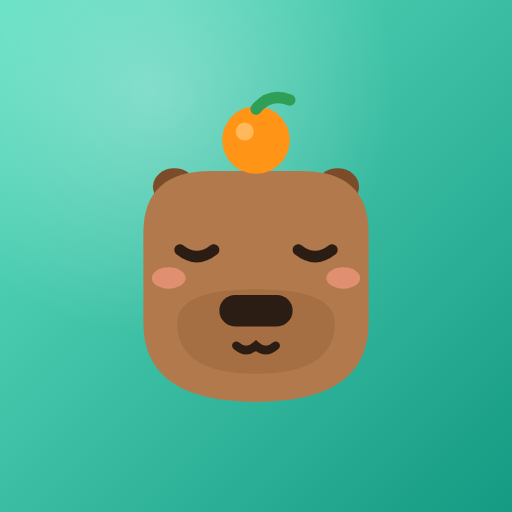
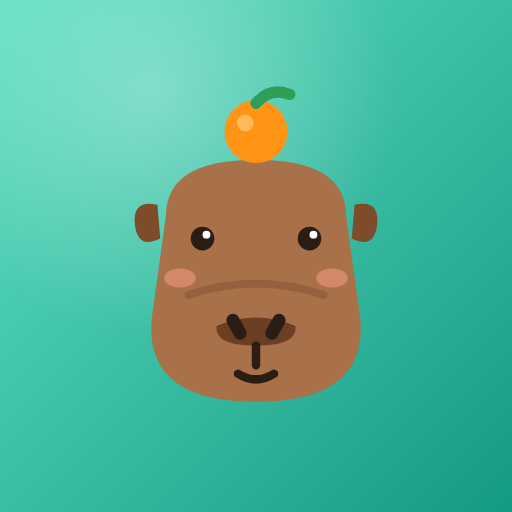
Site principal: capivara redesenhada (parece capivara, não urso)
Claude-Session: https://claude.ai/code/session_017XzR5RWQPSYUH6UPubdo7U

diff --git a/index.html b/index.html
@@ -2233,7 +2233,7 @@ button:focus-visible, a:focus-visible, [role="button"]:focus-visible, [tabindex]
   const eyes = (y = 38, dx = 8) => `<circle cx="${32 - dx}" cy="${y}" r="2.6" fill="${K}"/><circle cx="${32 + dx}" cy="${y}" r="2.6" fill="${K}"/>`;
   const blush = (y = 43, dx = 13, c = '#ff8fab') => `<ellipse cx="${32 - dx}" cy="${y}" rx="3.4" ry="2.2" fill="${c}" opacity=".7"/><ellipse cx="${32 + dx}" cy="${y}" rx="3.4" ry="2.2" fill="${c}" opacity=".7"/>`;
   const AVATARS = {
-    capivara: { name: 'Capivara', bg: '#d6f5ec', say: 'De boa…', svg: `<g class="ear"><ellipse cx="17.5" cy="17.8" rx="3.8" ry="3.3" fill="#7c4b2a"/><ellipse cx="46.5" cy="17.8" rx="3.8" ry="3.3" fill="#7c4b2a"/></g><g class="cb"><path d="M12 26q0-11 12-11h16q12 0 12 11v16q0 14-20 14T12 42z" fill="#b27a4c"/><path d="M18 42q0-6 14-6t14 6q0 9-14 9t-14-9z" fill="#9c663d" opacity=".55"/><path class="lid" d="M18.5 29q3 2.4 6 0M39.5 29q3 2.4 6 0" fill="none" stroke="${K}" stroke-width="2" stroke-linecap="round"/><rect x="25.5" y="37" width="13" height="5.6" rx="2.8" fill="${K}"/><path d="M28.5 46q1.75 1.6 3.5 0q1.75 1.6 3.5 0" fill="none" stroke="${K}" stroke-width="1.5" stroke-linecap="round"/><ellipse class="bl" cx="16.5" cy="34" rx="3" ry="1.9" fill="#ff9d8a" opacity=".6"/><ellipse class="bl" cx="47.5" cy="34" rx="3" ry="1.9" fill="#ff9d8a" opacity=".6"/></g><g class="fruit"><circle cx="32" cy="9.5" r="6" fill="#ff9416"/><circle cx="30" cy="8" r="1.6" fill="#ffc06b" opacity=".8"/><path d="M32 4q2.5-3 6-1.6" fill="none" stroke="#2f9e57" stroke-width="2" stroke-linecap="round"/></g>` },
+    capivara: { name: 'Capivara', bg: '#d6f5ec', say: 'De boa…', svg: `<g class="ear"><path d="M14.5 21q-4.5-1-4 3.5t4.5 2.5z" fill="#7e4c2b"/><path d="M49.5 21q4.5-1 4 3.5t-4.5 2.5z" fill="#7e4c2b"/></g><g class="cb"><path d="M16 23q0-10 16-10t16 10l2.5 18q1.5 15-18.5 15T13.5 41z" fill="#a9714a"/><path d="M20 37q12-4 24 0" fill="none" stroke="#8d5a37" stroke-width="1.4" stroke-linecap="round" opacity=".7"/><circle cx="22.5" cy="27" r="2.1" fill="${K}"/><circle cx="41.5" cy="27" r="2.1" fill="${K}"/><circle cx="23.2" cy="26.3" r=".7" fill="#fff"/><circle cx="42.2" cy="26.3" r=".7" fill="#fff"/><path d="M25 42.5q7-3 14 0q.5 3.5-7 3.5t-7-3.5z" fill="#6b3f24"/><path d="M27.9 41.5l1.3 2.3M36.1 41.5l-1.3 2.3" stroke="${K}" stroke-width="2.3" stroke-linecap="round"/><path d="M32 46v3.5M28.8 51q3.2 2 6.4 0" fill="none" stroke="${K}" stroke-width="1.5" stroke-linecap="round"/><ellipse class="bl" cx="18.5" cy="34" rx="2.8" ry="1.7" fill="#ff9d8a" opacity=".5"/><ellipse class="bl" cx="45.5" cy="34" rx="2.8" ry="1.7" fill="#ff9d8a" opacity=".5"/></g><g class="fruit"><circle cx="32" cy="8" r="5.6" fill="#ff9416"/><circle cx="30.1" cy="6.5" r="1.5" fill="#ffc06b" opacity=".8"/><path d="M32 3q2.5-3 6-1.6" fill="none" stroke="#2f9e57" stroke-width="2" stroke-linecap="round"/></g>` },
     gato: { name: 'Gato', bg: '#ffe7b3', say: 'Miau!', svg: `<g class="ear"><path d="M14 26 17 10 27 19M50 26 47 10 37 19" fill="#ffb020"/><path d="M18 15 19.5 22M46 15 44.5 22" stroke="#ff8a3d" stroke-width="2.4" stroke-linecap="round"/></g><circle cx="32" cy="36" r="19" fill="#ffb020"/>${eyes(35)}${blush(41)}<path d="M30 41h4l-2 2.2z" fill="#ff6f91"/><path d="M28.5 45q3.5 2.6 7 0" fill="none" stroke="${K}" stroke-width="1.8" stroke-linecap="round"/><path d="M12 39h8M12 43l8-1M52 39h-8M52 43l-8-1" stroke="${K}" stroke-width="1.3" stroke-linecap="round" opacity=".55"/>` },
     coelho: { name: 'Coelho', bg: '#ffd9e8', say: 'Hop hop!', svg: `<g class="ear el"><ellipse cx="24" cy="14" rx="5.5" ry="13" fill="#fff"/><ellipse cx="24" cy="15" rx="2.6" ry="9" fill="#ffadc8"/></g><g class="ear er"><ellipse cx="40" cy="14" rx="5.5" ry="13" fill="#fff"/><ellipse cx="40" cy="15" rx="2.6" ry="9" fill="#ffadc8"/></g><circle cx="32" cy="38" r="18" fill="#fff"/>${eyes(37)}${blush(42)}<ellipse cx="32" cy="42" rx="2.4" ry="1.7" fill="#ff7aa2"/><path d="M29 45.5q3 2.2 6 0" fill="none" stroke="${K}" stroke-width="1.7" stroke-linecap="round"/>` },
     urso: { name: 'Urso', bg: '#f1e2d1', say: 'Grrr… abraço!', svg: `<circle cx="17" cy="21" r="7" fill="#a86f45"/><circle cx="47" cy="21" r="7" fill="#a86f45"/><circle cx="17" cy="21" r="3.4" fill="#e3b78f"/><circle cx="47" cy="21" r="3.4" fill="#e3b78f"/><circle cx="32" cy="36" r="19" fill="#a86f45"/><ellipse cx="32" cy="43" rx="9" ry="7" fill="#e3b78f"/>${eyes(33)}<ellipse cx="32" cy="40.5" rx="3.2" ry="2.3" fill="${K}"/><path d="M29 45q3 2.4 6 0" fill="none" stroke="${K}" stroke-width="1.7" stroke-linecap="round"/>` },

diff --git a/preview.html b/preview.html
@@ -2233,7 +2233,7 @@ button:focus-visible, a:focus-visible, [role="button"]:focus-visible, [tabindex]
   const eyes = (y = 38, dx = 8) => `<circle cx="${32 - dx}" cy="${y}" r="2.6" fill="${K}"/><circle cx="${32 + dx}" cy="${y}" r="2.6" fill="${K}"/>`;
   const blush = (y = 43, dx = 13, c = '#ff8fab') => `<ellipse cx="${32 - dx}" cy="${y}" rx="3.4" ry="2.2" fill="${c}" opacity=".7"/><ellipse cx="${32 + dx}" cy="${y}" rx="3.4" ry="2.2" fill="${c}" opacity=".7"/>`;
   const AVATARS = {
-    capivara: { name: 'Capivara', bg: '#d6f5ec', say: 'De boa…', svg: `<g class="ear"><ellipse cx="17.5" cy="17.8" rx="3.8" ry="3.3" fill="#7c4b2a"/><ellipse cx="46.5" cy="17.8" rx="3.8" ry="3.3" fill="#7c4b2a"/></g><g class="cb"><path d="M12 26q0-11 12-11h16q12 0 12 11v16q0 14-20 14T12 42z" fill="#b27a4c"/><path d="M18 42q0-6 14-6t14 6q0 9-14 9t-14-9z" fill="#9c663d" opacity=".55"/><path class="lid" d="M18.5 29q3 2.4 6 0M39.5 29q3 2.4 6 0" fill="none" stroke="${K}" stroke-width="2" stroke-linecap="round"/><rect x="25.5" y="37" width="13" height="5.6" rx="2.8" fill="${K}"/><path d="M28.5 46q1.75 1.6 3.5 0q1.75 1.6 3.5 0" fill="none" stroke="${K}" stroke-width="1.5" stroke-linecap="round"/><ellipse class="bl" cx="16.5" cy="34" rx="3" ry="1.9" fill="#ff9d8a" opacity=".6"/><ellipse class="bl" cx="47.5" cy="34" rx="3" ry="1.9" fill="#ff9d8a" opacity=".6"/></g><g class="fruit"><circle cx="32" cy="9.5" r="6" fill="#ff9416"/><circle cx="30" cy="8" r="1.6" fill="#ffc06b" opacity=".8"/><path d="M32 4q2.5-3 6-1.6" fill="none" stroke="#2f9e57" stroke-width="2" stroke-linecap="round"/></g>` },
+    capivara: { name: 'Capivara', bg: '#d6f5ec', say: 'De boa…', svg: `<g class="ear"><path d="M14.5 21q-4.5-1-4 3.5t4.5 2.5z" fill="#7e4c2b"/><path d="M49.5 21q4.5-1 4 3.5t-4.5 2.5z" fill="#7e4c2b"/></g><g class="cb"><path d="M16 23q0-10 16-10t16 10l2.5 18q1.5 15-18.5 15T13.5 41z" fill="#a9714a"/><path d="M20 37q12-4 24 0" fill="none" stroke="#8d5a37" stroke-width="1.4" stroke-linecap="round" opacity=".7"/><circle cx="22.5" cy="27" r="2.1" fill="${K}"/><circle cx="41.5" cy="27" r="2.1" fill="${K}"/><circle cx="23.2" cy="26.3" r=".7" fill="#fff"/><circle cx="42.2" cy="26.3" r=".7" fill="#fff"/><path d="M25 42.5q7-3 14 0q.5 3.5-7 3.5t-7-3.5z" fill="#6b3f24"/><path d="M27.9 41.5l1.3 2.3M36.1 41.5l-1.3 2.3" stroke="${K}" stroke-width="2.3" stroke-linecap="round"/><path d="M32 46v3.5M28.8 51q3.2 2 6.4 0" fill="none" stroke="${K}" stroke-width="1.5" stroke-linecap="round"/><ellipse class="bl" cx="18.5" cy="34" rx="2.8" ry="1.7" fill="#ff9d8a" opacity=".5"/><ellipse class="bl" cx="45.5" cy="34" rx="2.8" ry="1.7" fill="#ff9d8a" opacity=".5"/></g><g class="fruit"><circle cx="32" cy="8" r="5.6" fill="#ff9416"/><circle cx="30.1" cy="6.5" r="1.5" fill="#ffc06b" opacity=".8"/><path d="M32 3q2.5-3 6-1.6" fill="none" stroke="#2f9e57" stroke-width="2" stroke-linecap="round"/></g>` },
     gato: { name: 'Gato', bg: '#ffe7b3', say: 'Miau!', svg: `<g class="ear"><path d="M14 26 17 10 27 19M50 26 47 10 37 19" fill="#ffb020"/><path d="M18 15 19.5 22M46 15 44.5 22" stroke="#ff8a3d" stroke-width="2.4" stroke-linecap="round"/></g><circle cx="32" cy="36" r="19" fill="#ffb020"/>${eyes(35)}${blush(41)}<path d="M30 41h4l-2 2.2z" fill="#ff6f91"/><path d="M28.5 45q3.5 2.6 7 0" fill="none" stroke="${K}" stroke-width="1.8" stroke-linecap="round"/><path d="M12 39h8M12 43l8-1M52 39h-8M52 43l-8-1" stroke="${K}" stroke-width="1.3" stroke-linecap="round" opacity=".55"/>` },
     coelho: { name: 'Coelho', bg: '#ffd9e8', say: 'Hop hop!', svg: `<g class="ear el"><ellipse cx="24" cy="14" rx="5.5" ry="13" fill="#fff"/><ellipse cx="24" cy="15" rx="2.6" ry="9" fill="#ffadc8"/></g><g class="ear er"><ellipse cx="40" cy="14" rx="5.5" ry="13" fill="#fff"/><ellipse cx="40" cy="15" rx="2.6" ry="9" fill="#ffadc8"/></g><circle cx="32" cy="38" r="18" fill="#fff"/>${eyes(37)}${blush(42)}<ellipse cx="32" cy="42" rx="2.4" ry="1.7" fill="#ff7aa2"/><path d="M29 45.5q3 2.2 6 0" fill="none" stroke="${K}" stroke-width="1.7" stroke-linecap="round"/>` },
     urso: { name: 'Urso', bg: '#f1e2d1', say: 'Grrr… abraço!', svg: `<circle cx="17" cy="21" r="7" fill="#a86f45"/><circle cx="47" cy="21" r="7" fill="#a86f45"/><circle cx="17" cy="21" r="3.4" fill="#e3b78f"/><circle cx="47" cy="21" r="3.4" fill="#e3b78f"/><circle cx="32" cy="36" r="19" fill="#a86f45"/><ellipse cx="32" cy="43" rx="9" ry="7" fill="#e3b78f"/>${eyes(33)}<ellipse cx="32" cy="40.5" rx="3.2" ry="2.3" fill="${K}"/><path d="M29 45q3 2.4 6 0" fill="none" stroke="${K}" stroke-width="1.7" stroke-linecap="round"/>` },

diff --git a/sw.js b/sw.js
@@ -1,6 +1,6 @@
 // Service worker: guarda o app no aparelho para abrir sem internet.
 // Página: tenta a rede primeiro (pega atualizações) e cai no que está guardado se estiver offline.
-const CACHE = 'orcamento-v11';
+const CACHE = 'orcamento-v12';
 const FILES = ['./', './index.html', './manifest.webmanifest', './favicon.svg', './icon-192.png', './icon-512.png', './icon-maskable-512.png', './apple-touch-icon.png'];
 
 self.addEventListener('install', e => {
